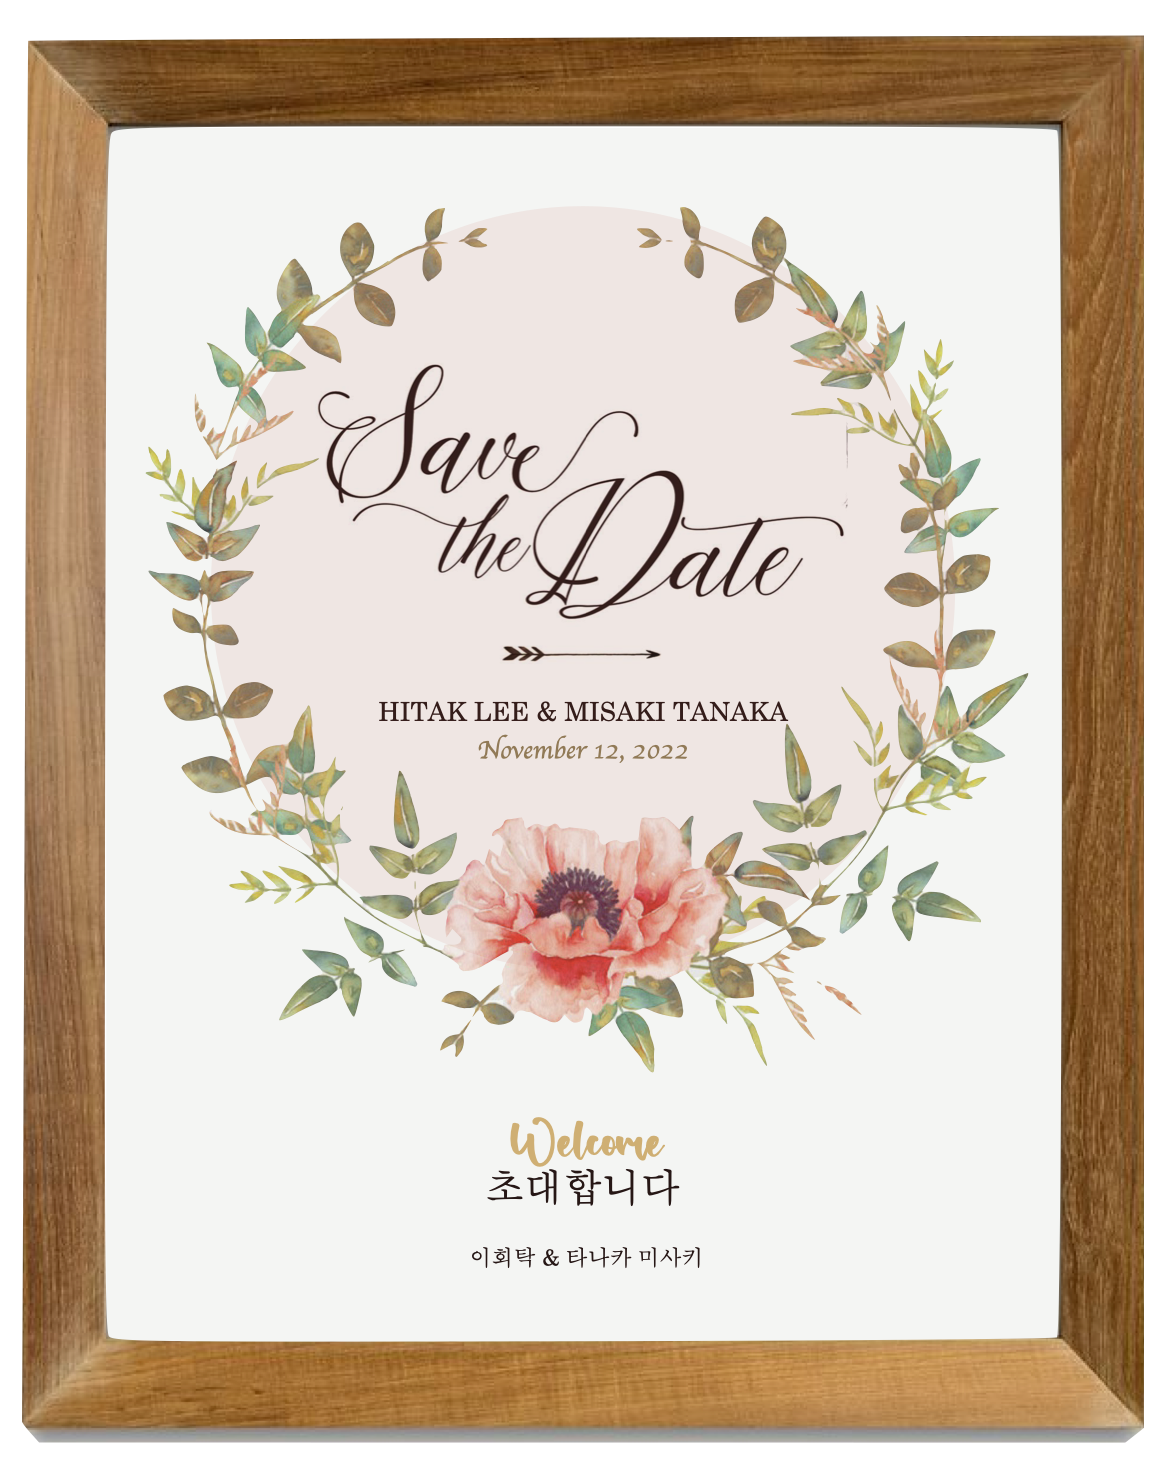
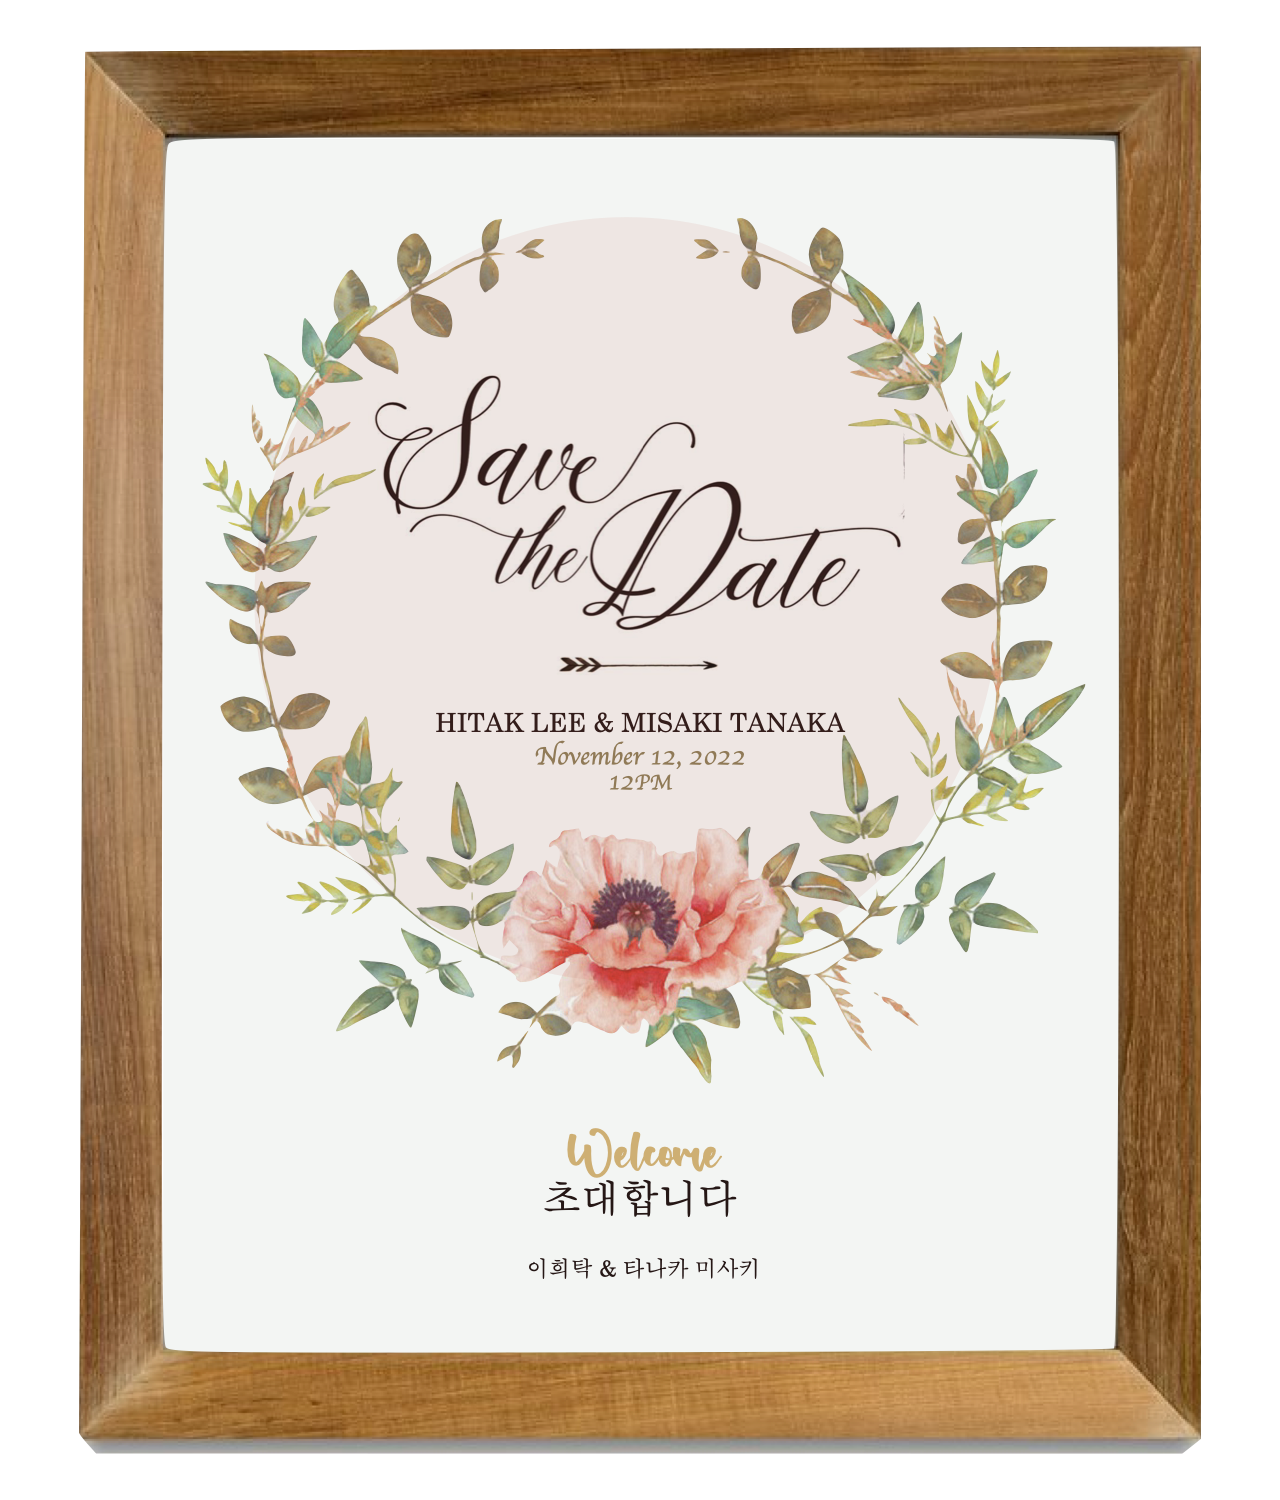
updated with google form

diff --git a/index.html b/index.html
@@ -19,63 +19,59 @@
         <input type="button" id="shadows" value="Shadows" hidden/>
         <input type="button" id="roundshadows" hidden value="Rounded Shadows"/>
         <input type="button" id="imagebut" value="Sakura" hidden/>
-        <header>
-        <h1>
-            <p>
-                이희탁 & 미사키 모바일 청첩장
-            </p>
-            <p>
-                Hitak Lee & Misaki's Mobile Invitation
-            </p>
-        </h1>
-        <h2>
-            We are getting married!
-        </h2>
-        <h3>
-            2022.11.12 SAT 11:00 A.M.
-            분당 만나교회 (경기도 성남시 분당구 양현로 353)
-        </h3>
+        <header id="#">
+            <aside><img src="./img/head.png"></aside>
+            <nav>
+                <ul>
+                    <li>
+                        <a href="#">Home</a>
+                    </li>
+                    <li>
+                        <a href="#vid">Video</a>
+                    </li>
+                    <li>
+                        <a href="#invitationphrase">Invitation</a>
+                    </li>
+                    <li>
+                        <a href="#gallery">Gallery</a>
+                    </li>
+                    <!-- <li>
+                        <a href="#live">Live</a>
+                    </li> -->
+                    <li>
+                        <a href="#map">Direction</a>
+                    </li>
+                    <li>
+                        <a href="#bank">Love</a>
+                    </li>
+                    <li>
+                        <a href="#msg">Leave Messages</a>
+                    </li>
+                    <li>
+                        <a href="#contact">Contact</a>
+                    </li>
+                </ul>
+            </nav>
+        <fieldset>
+            <legend>Details</legend>
+            Date: 2022.11.12 토요일 12:00 P.M.<br>
+            Location: 분당 만나교회 (경기도 성남시 분당구 양현로 353)<br>
+            Meal: 지하 1층 파구스 식당
+        </fieldset>
 
     </header>
-    <nav>
-        <ul>
-            <li>
-                <a href="#">Home</a>
-            </li>
-            <li>
-                <a href="#invitationphrase">Invitation</a>
-            </li>
-            <li>
-                <a href="#gallery">Gallery</a>
-            </li>
-            <li>
-                <a href="#live">Live</a>
-            </li>
-            <li>
-                <a href="#map">Direction</a>
-            </li>
-            <li>
-                <a href="#bank">Love</a>
-            </li>
-            <li>
-                <a href="#msg">Leave Messages</a>
-            </li>
-            <li>
-                <a href="#contact">Contact</a>
-            </li>
-        </ul>
-    </nav>
     <main>
-        <section>
+        <section id="vid">
             <iframe src="https://www.youtube.com/embed/vYX6WWpbUWk" title="YouTube video player" allowfullscreen></iframe>
         </section>
         <section class="invitationphrase" id="invitationphrase">
             <h2>
                 Wedding Invitation
-            </h2> 
+            </h2>
             <article>
                 <div>
-                    <aside name="horizontalpic"></aside>
+                    <a href="https://forms.gle/CMWrmruGt81h1Nwu5"><img src="./img/inv.png" class="imgs" ></a>
+                    <h3><a href="https://forms.gle/CMWrmruGt81h1Nwu5">상단 이미지를 클릭하시면 참석 여부 확인 페이지로 넘어갑니다.<br>Click the image to take the attendance survey.</a></h3><br>
                     <p>
                         부모님은 하늘로부터 받은 최고의 선물이고,<br>
                         부부는 자신이 선택한 최고의 보물이라고 합니다.<br>
@@ -86,7 +82,9 @@
                     </p>
                     <p>
                         <span><strong>이명희</strong> ★ <strong>이진구</strong>의 장남 <strong>이희탁</strong></span><br>
-                        <span><strong>하루에</strong> ★ <strong>히로유키</strong>의 장녀 <strong>미사키 타나카</strong></span>
+                        <span><strong>Groom</strong>:<strong>Hitak Lee</strong></span><br>
+                        <span><strong>하루에</strong> ★ <strong>히로유키</strong>의 장녀 <strong>미사키 타나카</strong></span><br>
+                        <span><strong>Bride</strong>:<strong>Misaki Tanaka</strong></span><br>
                     </p>
                 </div>
             </article>
@@ -99,7 +97,7 @@
 
             </aside>
         </section>
-        <section class="live" id="live">
+        <!-- <section class="live" id="live">
             <h2>
                 Live
             </h2>
@@ -110,7 +108,7 @@
             <span>10월 12일 오후 12시</span>
             <span>12th fo Oct, 12 PM</span>
             <a href="">라이브 보기 || Watch</a>
-        </section>
+        </section> -->
         <section class="map" id="map">
             <h2>
                 <p>오시는 길 / Direction</p>
@@ -148,7 +146,7 @@
                 <p>Please leave the Message here :)</p>
             </div>
             <div>
-                <form action="">
+                <form action="POST">
                     <fieldset>
                         <input type="text" placeholder="이름/Name">
                         <input type="password" placeholder="비밀번호/Password">

diff --git a/css/stylesheet.css b/css/stylesheet.css
@@ -15,3 +15,7 @@ body{
 }
 
 html,body{padding:0; margin:0; min-height: 100%; height:100%;}
+
+.imgs{
+  width:700px;
+}
